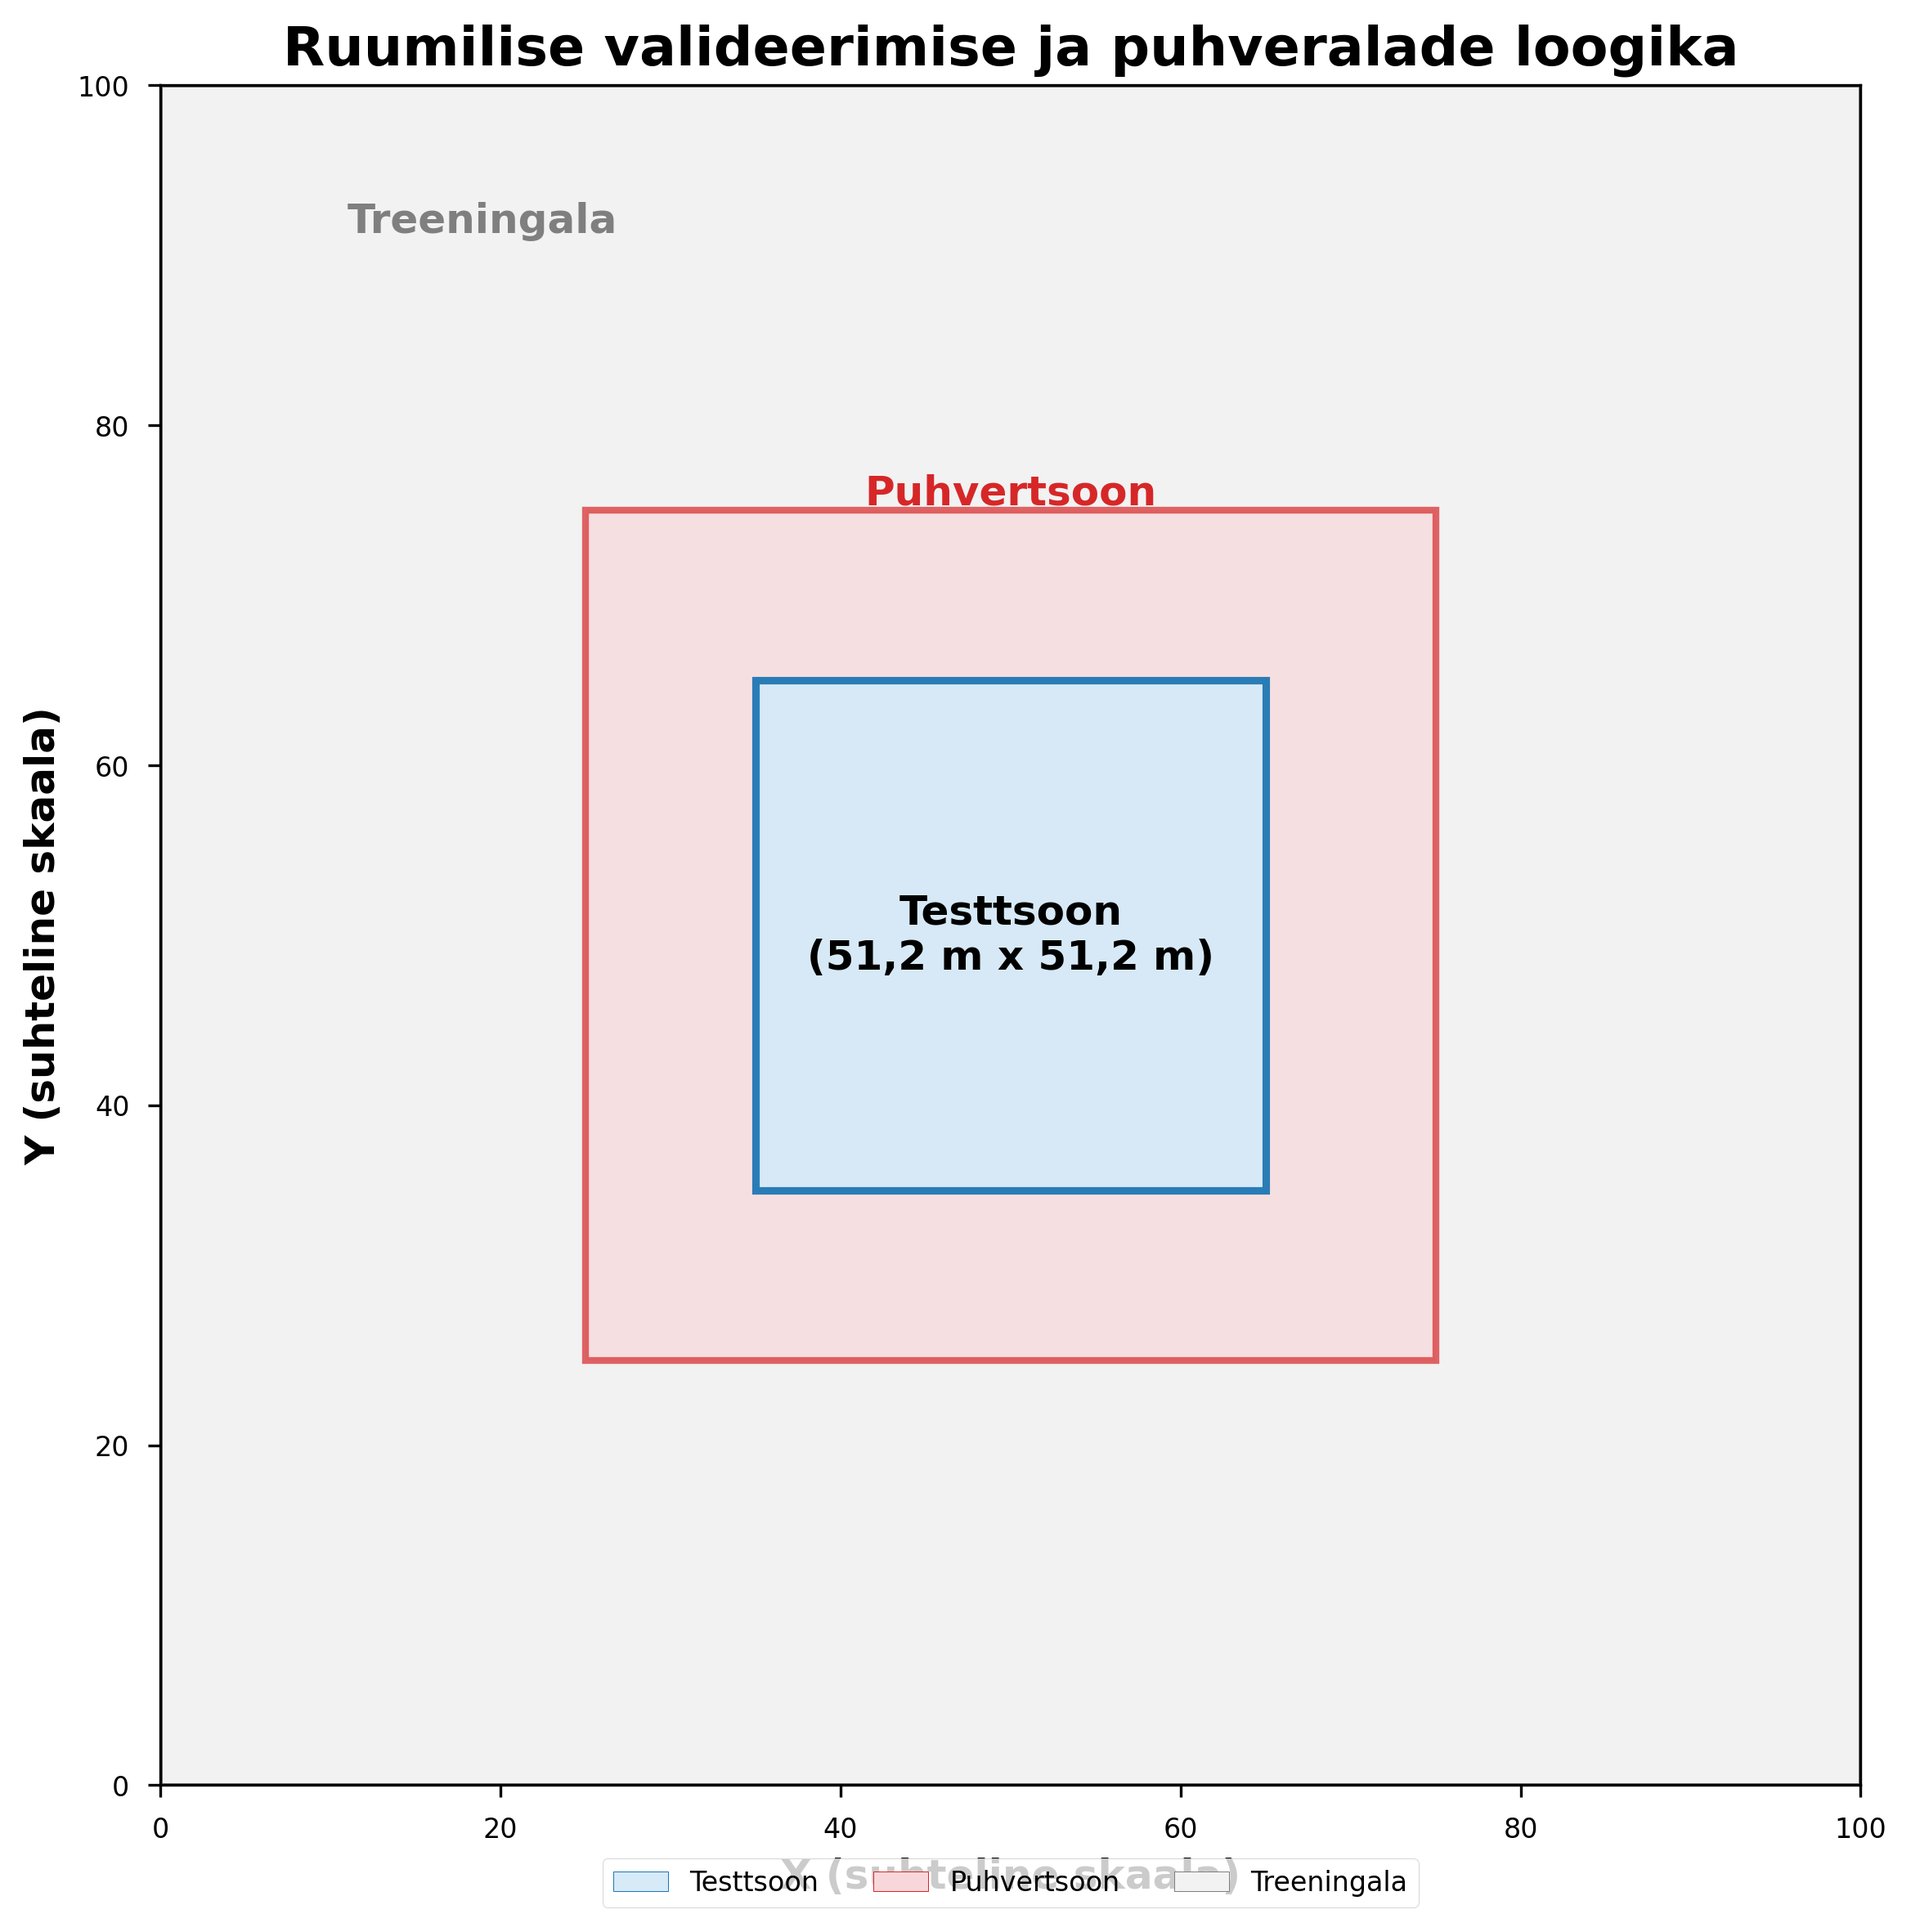
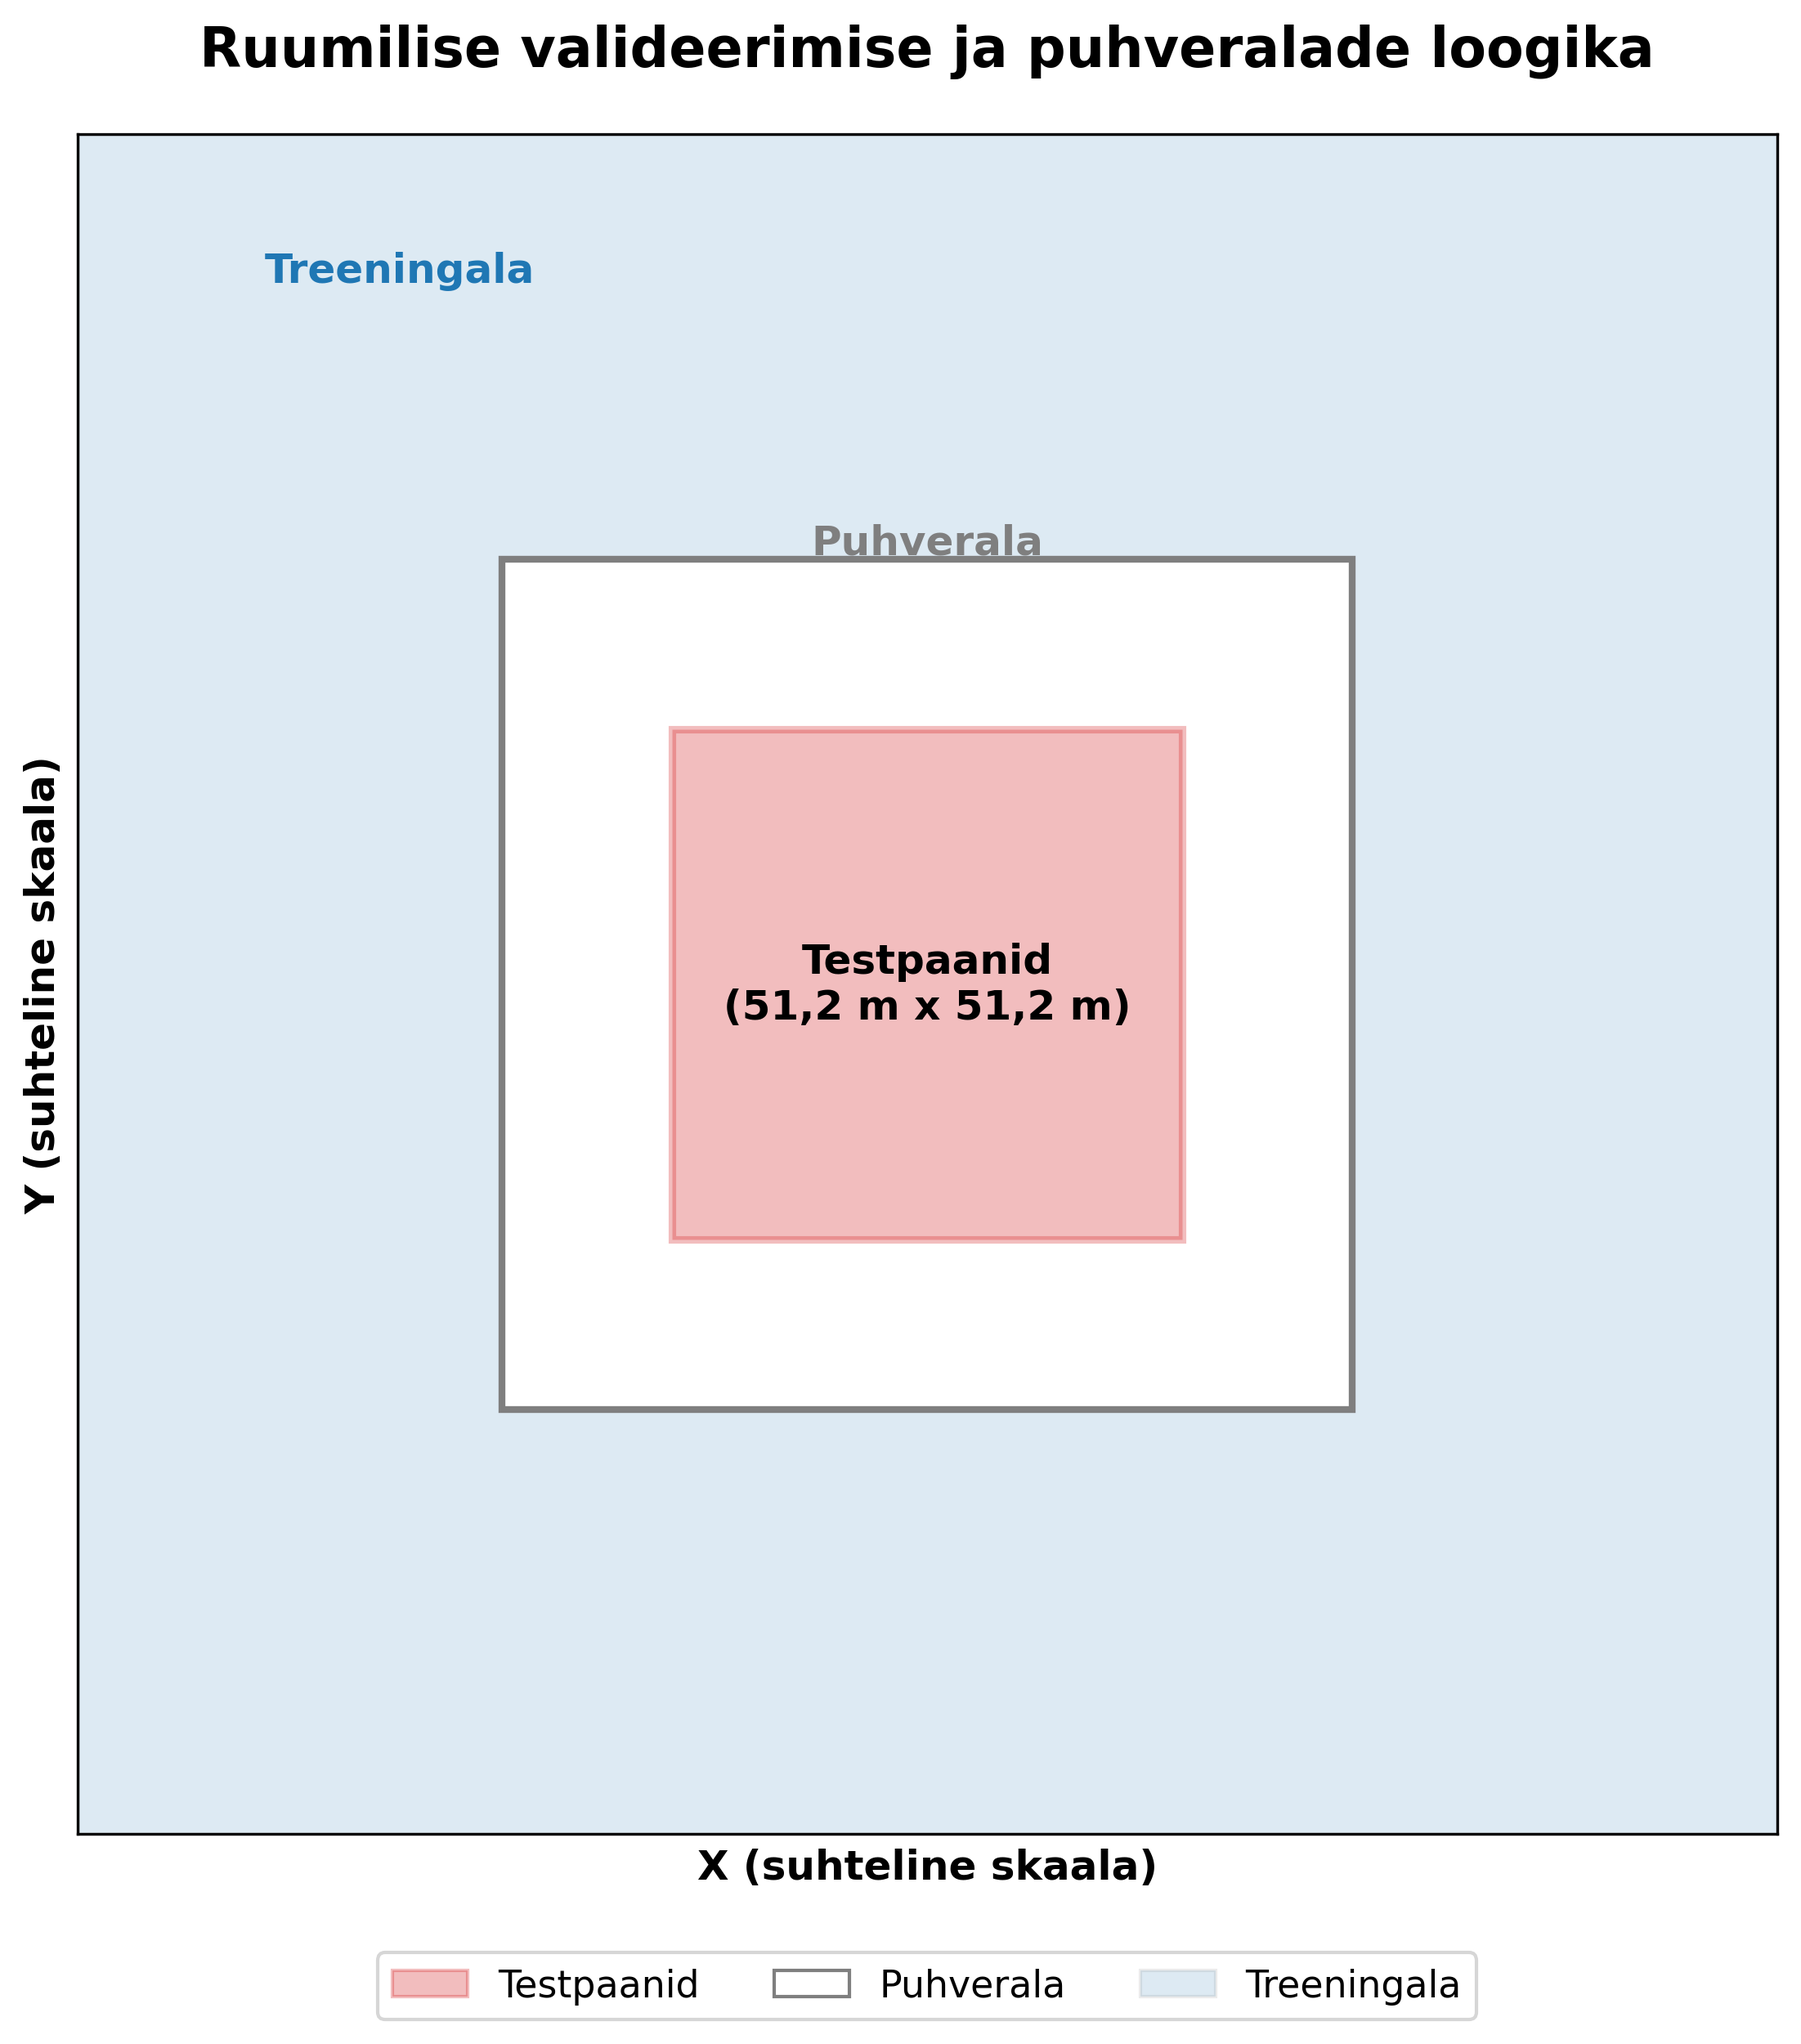
Add new images for Ruhnu orto project and ruumilise_valideerimise_loogika

diff --git a/LaTeX/Lamapuidu_tuvastamine/estonian/sektsioonid/4-metoodika.tex b/LaTeX/Lamapuidu_tuvastamine/estonian/sektsioonid/4-metoodika.tex
@@ -124,19 +124,39 @@ Selles peatükis kirjeldatakse lamapuidu tuvastamise klassifitseerimise ja seman
         \item \textbf{Ajaline leke:} Sama asukoha eri aastate vaatlused jaotatakse erinevatesse andmehulkadesse, võimaldades mudelil asukohapõhiseid eripärasid meelde jätta.
     \end{itemize}
 
-    \paragraph{Ruumilise eraldatuse strateegia} Pikslikoordinaadid teisendati sammupõhisteks koordinaatideks:
+    \paragraph{Sobilike märgistuste kriteeriumid}
+
+    Andmestikust valiti sobivad märgistused järgmiste kriteeriumite alusel:
+    \begin{itemize}
+        \item \textit{käsitsi märgistatud} (manual) --- uurija poolt hoolikalt märgistatud,
+        \item \textit{automaatselt vahelejäetud} (auto\_skip) --- selgesõnaliselt kontrollitud ja kinnitatud,
+        \item \textit{kõrge usaldusväärsusega automaatne} (auto $\land$ (mudeli\_tõenäosus $>0{,}95 \lor <0{,}05$)) --- automaatne märgistus, mille mudel klassifitseeris eriti kindlalt.
+    \end{itemize}
+
+    Välistati järgmised märgistused:
+    \begin{itemize}
+        \item \textit{keskmise usaldusväärsusega} (0,3--0,7 vahemik) --- 50\,896 märgistust, kuna mudeli kindlus oli ebapiisav,
+        \item \textit{madala usaldusväärsusega} (0,05--0,3 vahemik) --- 344\,667 märgistust, kuna need olid ebausaldusväärse kvaliteediga.
+    \end{itemize}
+
+    Kokku osutus sobilikuks \textbf{142\,465 märgistust} ehk 24,56\% kogu andmestikust. Sobilike märgistuste hulgas oli 102\,290 Lamapuidu märgistust (71,80\%) ja 40\,175 tausta märgistust (28,20\%).
+
+    \paragraph{Ruumilise eraldatuse strateegia}
+
+    Ruumilise sõltuvuse vältimiseks teisendati piksel-koordinaadid sammupõhisteks koordinaatideks:
     \[
     r_s = \lfloor r_{\text{off}} / 64 \rfloor, \quad c_s = \lfloor c_{\text{off}} / 64 \rfloor
     \]
-    mis kujutab kattuvad aknad täisarvulisele ruudustikule positsioonideks 0, 1, 2, \ldots
+    mis kaartab kattuvad aknad täisarvulisele ruudustikule positsioonideks 0, 1, 2, \ldots
 
-    Iga valitud testkeskuse ümber laiendati testtsooni Tšebõšovi kaugusega ($\leq 1$). Kuna antud kaugusmõõt lubab samaväärset liikumist nii horisontaal-, vertikaal- kui ka diagonaalsuunal, moodustab $3\times3$ ruudustiku ehk ligikaudu 51,2~m $\times$ 51,2~m. See arvestab külgnevate akende 50\% kattuvust. Testtsooni ja treeningala vahele jäeti puhvertsoon (Tšebõšovi kaugus = 2, v.a nurgas paiknevad diagonaalpositsioonid). Testi- ja treeningpikslit lahutav vahe on 1 samm (64~px = 12,8~m), mis välistab pikslite jagamise kahe andmekogumi vahel. Kuigi see on väiksem kui Gu jt (2024) poolt pakutud 50~m autokorrelatsiooni vahemik, lähtub valik kasutatavas andmestikus esinevate märgistuste tihedusest ning andmemahu säilitamise vajadusest. Alternatiivne 50~m puhvertsooni rakendamine vähendaks treeningandmestiku 67\,290 märgistuselt ligikaudu 30\% võrra, mis käesoleva töö andmemahu juures ei ole otstarbekas. Puhvertsooni valikuga seonduvaid piiranguid on käesolevas töös põhjalikumalt käsitletud jaotises~\ref{subsec:metoodika-piirangud}.
+    Treeningandmete jaotus viidi läbi järgmiste sammude:
+    \begin{enumerate}
+        \item \textbf{Testpaani valitsemine:} Juhuslikult valiti 2\% sobilikest märgistustest (ligikaudu 2\,850 märgistust) testpaanideks.
+        \item \textbf{Testpaani ümbritsev testtsoon:} Iga testpaani ümber laiendati testtsooni Tšebõšovi kaugusega ($\leq 1$). Kuna antud kaugusmõõt lubab samaväärset liikumist nii horisontaal-, vertikaal- kui ka diagonaalsuunal, moodustab $3\times3$ ruudustiku ehk ligikaudu 51,2~m $\times$ 51,2~m. See arvestab külgnevate akende 50\% kattuvust. Testtsooni ja treeningala vahele jäeti puhvertsoon (Tšebõšovi kaugus = 2, v.a nurgas paiknevad diagonaalpositsioonid). Testi- ja treeningpikslit lahutav vahe on 1 samm (64~px = 12,8~m), mis välistab pikslite jagamise kahe andmekogumi vahel. Kuigi see on väiksem kui Gu jt (2024) poolt pakutud 50~m autokorrelatsiooni vahemik, lähtub valik kasutatavas andmestikus esinevate märgistuste tihedusest ning andmemahu säilitamise vajadusest. Alternatiivne 50~m puhvertsooni rakendamine vähendaks treeningandmestiku 67\,290 märgistuselt ligikaudu 30\% võrra, mis käesoleva töö andmemahu juures ei ole otstarbekas. Puhvertsooni valikuga seonduvaid piiranguid on käesolevas töös põhjalikumalt käsitletud jaotises~\ref{subsec:metoodika-piirangud}. Kuna sama füüsiline asukoht on sageli vaadeldud mitmel aastal, määratakse ruumiline roll (test/treening/puhver) asukoha, mitte aastaperioodi kaupa. Juhusliku valiku lähteväärtus (ingl \textit{seed}) seotakse asukohatähisega (kaardileht, rida, veerg), tagades identse rolli kõikidele sama asukoha aastatele.
 
-    \paragraph{Ajalise järjepidevuse tagamine} Kuna sama füüsiline asukoht on sageli vaadeldud mitmel aastal, määratakse ruumiline roll (test/treening/puhver) asukoha, mitte aastaperioodi kaupa. Juhusliku valiku lähteväärtus (ingl \textit{seed}) seotakse asukohatähisega (kaardileht, rida, veerg), tagades identse rolli kõikidele sama asukoha aastatele.
 
-    \paragraph{Sobilike märgistuste kriteeriumid} Sobilikeks märgistusteks loeti need, mis on käsitsi märgistatud (\textit{manual}), märgistaja poolt kinnitatud (\textit{auto\_skip}) või kus mudeli tõenäosus on väga kõrge ($>0{,}95$) või väga madal ($<0{,}05$). Kokku osutus sobilikuks 142\,465 märgistust ehk 24,56\% andmetest. Välistati keskmise usaldusväärsusega (vahemik 0,3--0,7) objektid (50\,896 märgistust), kuna mudeli kindlus nende osas oli ebapiisav.
 
-    \paragraph{Lõplik treening-, valideerimis- ja testvalimi jaotus} Valitud seadistus (testtsooni Tšebõšovi kaugus 1, puhvertsooni kaugus 2, valik 2\% sobilikest märgistustest testseemneteks kaardilehe kohta) andis järgmise jaotuse:
+    \paragraph{Lõplik treening-, valideerimis- ja testvalimi jaotus} Valitud seadistus (testtsooni Tšebõšovi kaugus 1, puhvertsoon 2 paani, valik 2\% sobilikest märgistustest testseemneteks kaardilehe kohta) andis järgmise jaotuse:
 
     \begin{table}[h!]
     \centering

diff --git a/scripts/generate_thesis_placeholder_figures.py b/scripts/generate_thesis_placeholder_figures.py
@@ -337,30 +337,30 @@ def plot_chm_example(output: Path) -> None:
 
 def plot_spatial_validation(output: Path) -> None:
     _set_style()
-    fig, ax = plt.subplots(figsize=(16, 9))
+    fig, ax = plt.subplots(figsize=(19, 9))
     ax.set_xlim(0, 100)
     ax.set_ylim(0, 100)
     ax.set_aspect("equal")
 
-    ax.add_patch(Rectangle((0, 0), 100, 100, facecolor="#f2f2f2", edgecolor=C_GRAY, linewidth=1.2))
-    ax.add_patch(Rectangle((25, 25), 50, 50, facecolor="#f8d7da", edgecolor=C_RED, linewidth=2.0, alpha=0.7))
-    ax.add_patch(Rectangle((35, 35), 30, 30, facecolor="#d6eaf8", edgecolor=C_BLUE, linewidth=2.2, alpha=0.95))
+    ax.add_patch(Rectangle((0, 0), 100, 100, facecolor=C_BLUE, edgecolor=C_GRAY, linewidth=1.2, alpha=0.15))
+    ax.add_patch(Rectangle((25, 25), 50, 50, facecolor=C_GRAY, edgecolor=C_GRAY, linewidth=2.0, alpha=0.25))
+    ax.add_patch(Rectangle((35, 35), 30, 30, facecolor=C_RED, edgecolor=C_RED, linewidth=2.2, alpha=0.3))
 
     for p in np.arange(0, 101, 10):
         ax.axhline(p, color="#d9d9d9", linewidth=0.6, zorder=0)
         ax.axvline(p, color="#d9d9d9", linewidth=0.6, zorder=0)
 
-    ax.text(50, 50, "Testtsoon\n(51,2 m x 51,2 m)", ha="center", va="center", fontsize=12, fontweight="bold")
-    ax.text(50, 76, "Puhvertsoon", ha="center", va="center", fontsize=12, fontweight="bold", color=C_RED)
-    ax.text(11, 92, "Treeningala", ha="left", va="center", fontsize=12, fontweight="bold", color=C_GRAY)
+    ax.text(50, 50, "Testpaanid\n(51,2 m x 51,2 m)", ha="center", va="center", fontsize=12, fontweight="bold")
+    ax.text(50, 76, "Puhverala", ha="center", va="center", fontsize=12, fontweight="bold", color=C_GRAY)
+    ax.text(11, 92, "Treeningala", ha="left", va="center", fontsize=12, fontweight="bold", color=C_BLUE)
 
     legend_handles = [
-        Patch(facecolor="#d6eaf8", edgecolor=C_BLUE, label="Testtsoon"),
-        Patch(facecolor="#f8d7da", edgecolor=C_RED, label="Puhvertsoon"),
-        Patch(facecolor="#f2f2f2", edgecolor=C_GRAY, label="Treeningala"),
+        Patch(facecolor=C_RED, edgecolor=C_RED, alpha=0.3, label="Testpaanid"),
+        Patch(facecolor=C_GRAY, edgecolor=C_GRAY, alpha=0.25, label="Puhverala"),
+        Patch(facecolor=C_BLUE, edgecolor=C_GRAY, alpha=0.15, label="Treeningala"),
     ]
-    ax.legend(handles=legend_handles, loc="lower center", bbox_to_anchor=(0.5, -0.08), ncol=3, frameon=True)
-    ax.set_title("Ruumilise valideerimise ja puhveralade loogika", fontsize=16, fontweight="bold")
+    ax.legend(handles=legend_handles, loc="upper center", bbox_to_anchor=(0.5, 0.96), ncol=3, frameon=True, fontsize=11)
+    ax.set_title("Ruumilise valideerimise ja puhveralade loogika", fontsize=16, fontweight="bold", pad=20)
     ax.set_xlabel("X (suhteline skaala)", fontsize=12, fontweight="bold")
     ax.set_ylabel("Y (suhteline skaala)", fontsize=12, fontweight="bold")
     ax.grid(False)
